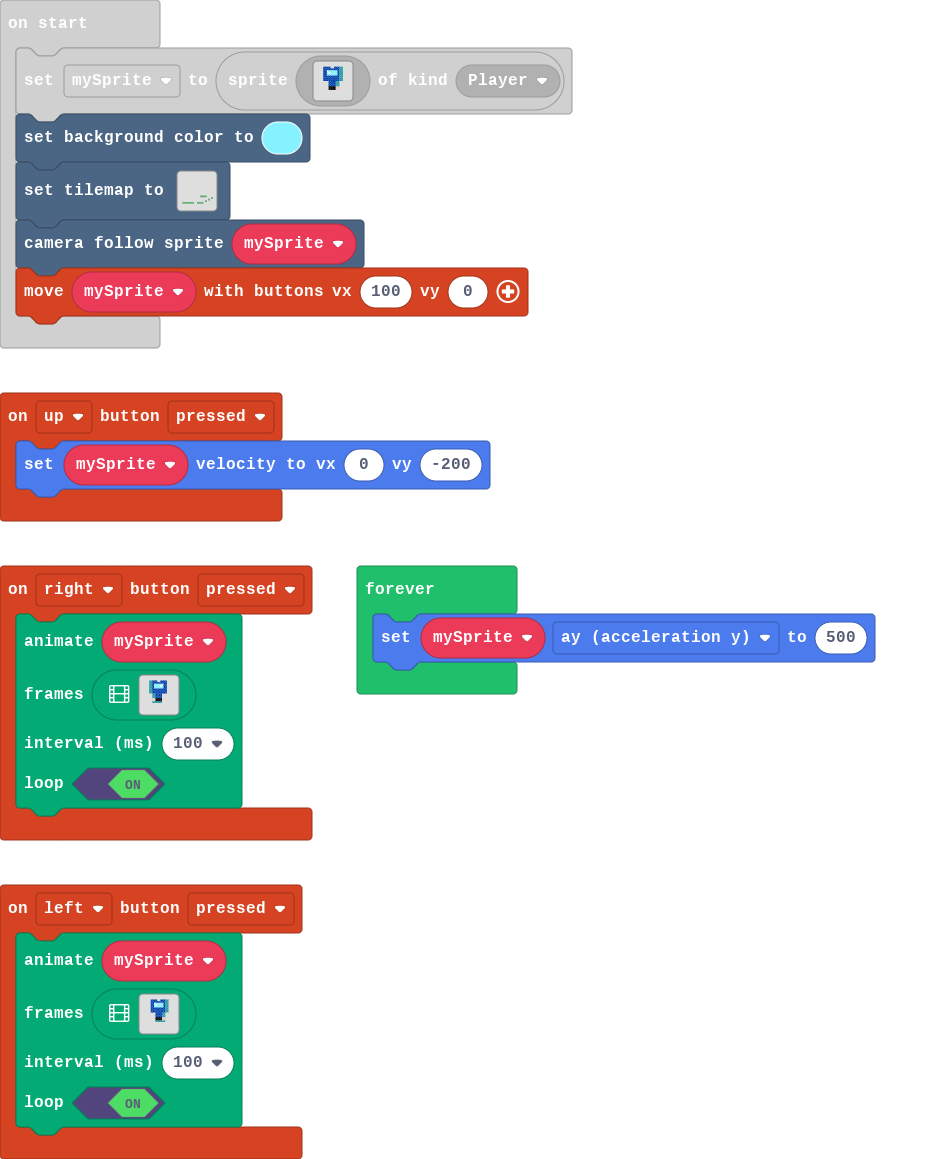
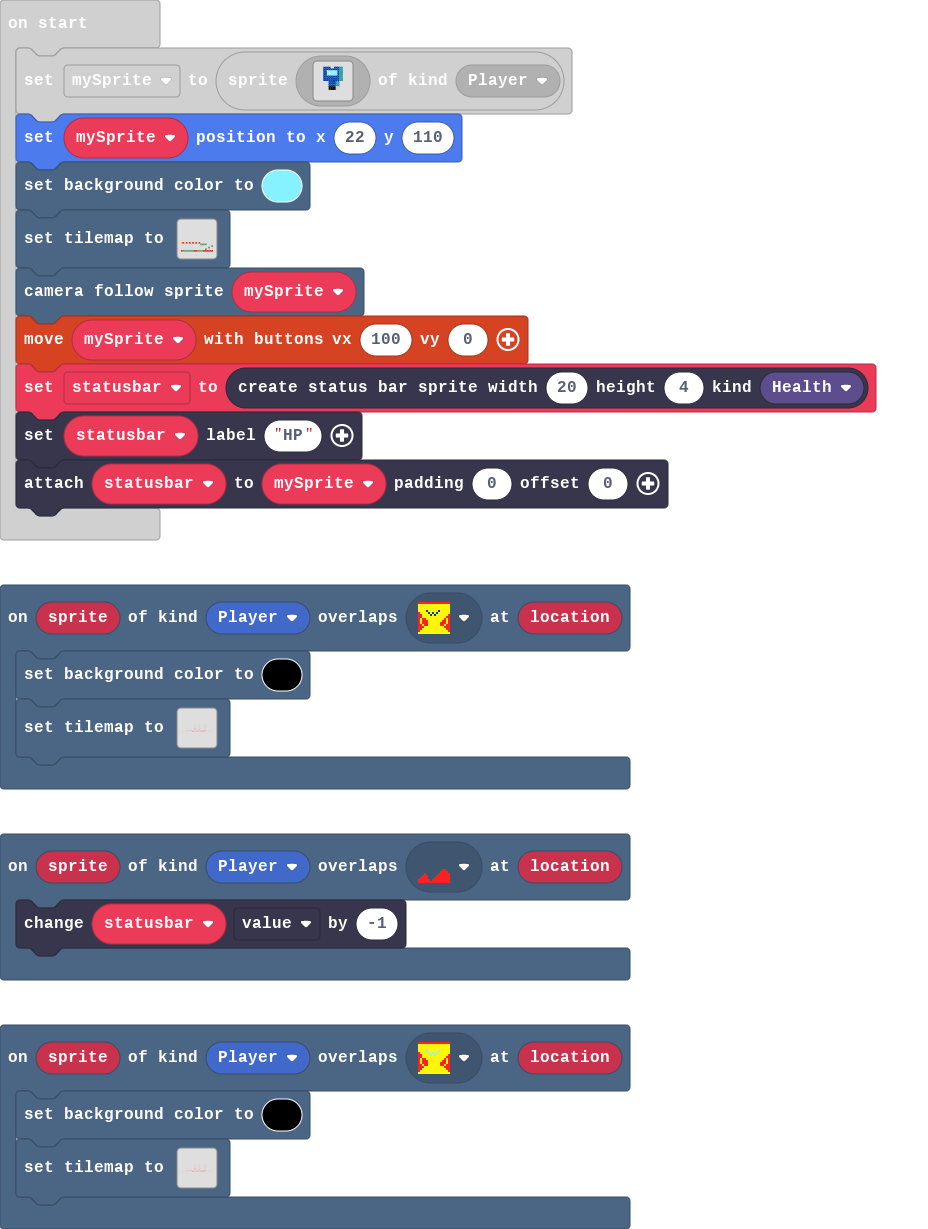
EVER THING

diff --git a/tilemap.g.ts b/tilemap.g.ts
@@ -2,11 +2,50 @@
 namespace myTiles {
     //% fixedInstance jres blockIdentity=images._tile
     export const transparency16 = image.ofBuffer(hex``);
+    //% fixedInstance jres blockIdentity=images._tile
+    export const tile1 = image.ofBuffer(hex``);
+    //% fixedInstance jres blockIdentity=images._tile
+    export const tile2 = image.ofBuffer(hex``);
+    //% fixedInstance jres blockIdentity=images._tile
+    export const tile3 = image.ofBuffer(hex``);
+    //% fixedInstance jres blockIdentity=images._tile
+    export const tile4 = image.ofBuffer(hex``);
+    //% fixedInstance jres blockIdentity=images._tile
+    export const tile7 = image.ofBuffer(hex``);
+    //% fixedInstance jres blockIdentity=images._tile
+    export const tile6 = image.ofBuffer(hex``);
+    //% fixedInstance jres blockIdentity=images._tile
+    export const tile5 = image.ofBuffer(hex``);
+    //% fixedInstance jres blockIdentity=images._tile
+    export const tile8 = image.ofBuffer(hex``);
+    //% fixedInstance jres blockIdentity=images._tile
+    export const tile9 = image.ofBuffer(hex``);
+    //% fixedInstance jres blockIdentity=images._tile
+    export const tile10 = image.ofBuffer(hex``);
 
     helpers._registerFactory("tilemap", function(name: string) {
         switch(helpers.stringTrim(name)) {
+            case "level3":
+            case "level3":return tiles.createTilemap(hex`1000100000000000000000000000000000000000000000000000000000000000000000000000000000000000000000000000000000000000000000000000000000000000000000000000000000000000000000000000000000000000000000000000000000000000000000000000000000000000000000000000000000000000000000000000000000000000000000000000000000000000000000000000000000000000000000000000000000000000000000000000000000000000000000000000000000000000000000000000000000000000000000000000000000000000000000000000000000000000000000000000000000000000000000000000000000000000`, img`
+. . . . . . . . . . . . . . . . 
+. . . . . . . . . . . . . . . . 
+. . . . . . . . . . . . . . . . 
+. . . . . . . . . . . . . . . . 
+. . . . . . . . . . . . . . . . 
+. . . . . . . . . . . . . . . . 
+. . . . . . . . . . . . . . . . 
+. . . . . . . . . . . . . . . . 
+. . . . . . . . . . . . . . . . 
+. . . . . . . . . . . . . . . . 
+. . . . . . . . . . . . . . . . 
+. . . . . . . . . . . . . . . . 
+. . . . . . . . . . . . . . . . 
+. . . . . . . . . . . . . . . . 
+. . . . . . . . . . . . . . . . 
+. . . . . . . . . . . . . . . . 
+`, [myTiles.transparency16], TileScale.Sixteen);
             case "level1":
-            case "level1":return tiles.createTilemap(hex`140010000000000000000000000000000000000000000000000000000000000000000000000000000000000000000000000000000000000000000000000000000000000000000000000000000000000000000000000000000000000000000000000000000000000000000000000000000000000000000000000000000000000000000000000000000000000000000000000000000000000000000000000000000000000000000000000000000000000000000000000000000000000000000000000000000000000000000000000000000000000000000000000000000000000000000000000000000000000002010103000000000000000000000000000000000000000000000004000000000000000000000000000000000004000000000000000000000000000000000004000000000002010101010103000002010103000000000000`, img`
+            case "level1":return tiles.createTilemap(hex`140010000000000000000000000000000000000000000000000000000000000000000000000000000000000000000000000000000000000000000000000000000000000000000000000000000000000000000000000000000000000000000000000000000000000000000000000000000000000000000000000000000000000000000000000000000000000000000000000000000000000000000000000000000000000000000000000000000000000000000000000000000000000000000000000000000000000000000000060500050005000500050005000000000000000000000000000000000000000002010103000000000000000000000000000000000000000000000004000000000000000000000000000000000004000000000000000000000000000000000004000000000702010101010103070702010103070707070707`, img`
 ....................
 ....................
 ....................
@@ -23,7 +62,64 @@ namespace myTiles {
 .................2..
 ...............2....
 .2222222..2222......
-`, [myTiles.transparency16,sprites.builtin.forestTiles2,sprites.builtin.forestTiles1,sprites.builtin.forestTiles3,sprites.builtin.forestTiles4], TileScale.Sixteen);
+`, [myTiles.transparency16,sprites.builtin.forestTiles2,sprites.builtin.forestTiles1,sprites.builtin.forestTiles3,sprites.builtin.forestTiles4,myTiles.tile1,myTiles.tile3,myTiles.tile8], TileScale.Sixteen);
+            case "level2":
+            case "level2":return tiles.createTilemap(hex`4600100000000000000000000000000000000000000000000000000000000000000303030000000000000003030300000000000000000003030303000000000000000000000000000000000000000000000000000000000000000000000000000000000000000003030300000000000000030303000000000000000000030303030000000000000000000000000000000000000000000000000000000000000000000000000000000000000000030303000000000000000303030000000000000000000303030300000000000000000000000000000000000000000000000000000000000000000000000000000000000000000303030000000000000003030300000000000000000003030303000000000000000000000000000000000000000000000000000000000000000000000000000000000000000003030300000000000000030303000000000000000000030303030000000000000000000000000000000000000000000000000000000000000000000000000000000000000000030303000000000000000303030000000000000000000303030300000000000000000000000000000000000000000000000000000000000000000000000000000000000000000303030000000000000003030300000000000000000003030303000000000000000000000000000000000000000000000000000000000000000000000000000000000000000000000000000000000000030303000000000000000000030303030000000000000000000000000000000000000000000000000000000000000000000000000000000000000000000000000000000000000303030000000000000000000303030300000000000000000000000000000000000000000000000000000000000000000000000000000000000000000000000000000000000003030300000000000000000003030303000000000000000000000000000000000000000000000000000000000000000000000000000000000000000002020200000000000000000000000000000000000000000000000000000000000000000000000000000000000000000000000000000000000000000000000000000000000000030303000000000000000000000000000000000000000000000000000000000000000000000000000400000000000000000000000000000000000000000000000000000000000303030000000000000002020200000000000000000000000000000000000000000000000000000000000000000000000000000001000001000001000001000001000000000003030302000000000000030303000000000000000000020202020000000000000000000003030303030000000000000000000000000000000000000000000000000000000000030303030000000000000303030000000000000000000303030303030303030303030303030303030303030303030303030303030303030303030303030303030302020202020303030302020202020203030302020202020202020203030303030303030303030303030303030303`, img`
+.............................222.......222.........2222...............
+.............................222.......222.........2222...............
+.............................222.......222.........2222...............
+.............................222.......222.........2222...............
+.............................222.......222.........2222...............
+.............................222.......222.........2222...............
+.............................222.......222.........2222...............
+.......................................222.........2222...............
+.......................................222.........2222...............
+.......................................222.........2222...............
+......................................................................
+.............................222......................................
+.............................222......................................
+.............................222.......222.......................22222
+.............................2222......222.........2222222222222222222
+222222222222222222222222.....2222......222.........2222222222222222222
+`, [myTiles.transparency16,myTiles.tile2,myTiles.tile8,sprites.dungeon.floorLight2,myTiles.tile4], TileScale.Sixteen);
+            case "level4":
+            case "level4":return tiles.createTilemap(hex`1000100000000000000000000000000000000000000000000000000000000000000000000000000000000000000000000000000000000000000000000000000000000000000000000000000000000000000000000000000000000000000000000000000000000000000000000000000000000000000000000000000000000000000000000000000000000000000000000000000000000000000000000000000000000000000000000000000000000000000000000000000000000000000000000000000000000000000000000000000000000000000000000000000000000000000000000000000000000000000000000000000000000000000000000000000000000000`, img`
+. . . . . . . . . . . . . . . . 
+. . . . . . . . . . . . . . . . 
+. . . . . . . . . . . . . . . . 
+. . . . . . . . . . . . . . . . 
+. . . . . . . . . . . . . . . . 
+. . . . . . . . . . . . . . . . 
+. . . . . . . . . . . . . . . . 
+. . . . . . . . . . . . . . . . 
+. . . . . . . . . . . . . . . . 
+. . . . . . . . . . . . . . . . 
+. . . . . . . . . . . . . . . . 
+. . . . . . . . . . . . . . . . 
+. . . . . . . . . . . . . . . . 
+. . . . . . . . . . . . . . . . 
+. . . . . . . . . . . . . . . . 
+. . . . . . . . . . . . . . . . 
+`, [myTiles.transparency16], TileScale.Sixteen);
+            case "level5":
+            case "level5":return tiles.createTilemap(hex`6400100000000000000000000000000000000000000000000000000000000000000000000000000000000000000000000000000000000000000000000000000000000000000000000000000000000000000000000000000000000000000000000000000000000000000000000000000000000000000000000000000000000000000000000000000000000000000000000000000000000000000000000000000000000000000000000000000000000000000000000000000000000000000000000000000000000000000000000000000000000000000000000000000000000000000000000000000000000000000000000000000000000000000000000000000000000000000000000000000000000000000000000000000000000000000000000000000000000000000000000000000000000000000000000000000000000000000000000000000000000000000000000000000000000000000000000000000000000000000000000000000000000000000000000000000000000000000000000000000000000000000000000000000000000000000000000000000000000000000000000000000000000000000000000000000000000000000000000000000000000000000000000000000000000000000000000000000000000000000000000000000000000000000000000000000000000000000000000000000000000000000000000000000000000000000000000000000000000000000000000000000000000000000000000000000000000000000000000000000000000000000000000000000000000000000000000000000000000000000000000000000000000000000000000000000000000000000000000000000000000000000000000000000000000000000000000000000000000000000000000000000000000000000000000000000000000000000000000000000000000000000000000000000000000000000000000000000000000000000000000000000000000000000000000000000000000000000000000000000000000000000000000000000000000000000000000000000000000000000000000000000000000000000000000000000000000000000000000000000000000000000000000000000000000000000000000000000000000000000000000000000000000000000000000000000000000000000000000000000000000000000000000000000000000000000000000000000000000000000000000000000000000000000000000000000000000000000000000000000000000000000000000000000000000000000000000000000000000000000000000000000000000000000000000000000000000000000000000000000000000000000000000000000000000000000000000000000000000000000000000000000000000000000000000000000000000000000000000000000000000000000000000000000000000000000000000000000000000000000000000000000000000000000000000000000000000000000000000000000000000000000000000003030303030303030303030303030303030303030303000000000000000000000000000000000000000000000000000000000000000000000000000000000000000000000000000000000000000000000000000000000003030303030303030303030303000000000000000000000000000000000000000000000000000000000000000000000000000000000000000000000000000000000000000000000000000000000000000000000000000000000000000000000000000000000000000000000000000000000000000000000000000001010000020002000200020000000000000000000000000000000000000000000000000000000000000000000000000000000000000000000000000000000000000000000000000000000000000000000000000000000000000000030303030303030303030300000000000000000000000000000000000000000000000000000000000000000000000000000000000000000000000000000000000000000000000000000000000000000000000000000003030303030303030303030301010101010101010101010101010101010101010101010000000000000000000000000000000000000000000000000000000000000000000000000000000000000000000000000000000000000000000000000000000000`, img`
+....................................................................................................
+....................................................................................................
+....................................................................................................
+....................................................................................................
+....................................................................................................
+....................................................................................................
+....................................................................................................
+....................................................................................................
+....................................................................................................
+....................................................................................................
+....................................................................................................
+.............2222222222222222222222.................................................................
+2222222222222.......................................................................................
+....................................................................................................
+..............22222222222...........................................................................
+222222222222........................................................................................
+`, [myTiles.transparency16,myTiles.tile8,myTiles.tile10,sprites.builtin.brick], TileScale.Sixteen);
         }
         return null;
     })
@@ -31,6 +127,26 @@ namespace myTiles {
     helpers._registerFactory("tile", function(name: string) {
         switch(helpers.stringTrim(name)) {
             case "transparency16":return transparency16;
+            case "myTile":
+            case "tile1":return tile1;
+            case "myTile0":
+            case "tile2":return tile2;
+            case "myTile1":
+            case "tile3":return tile3;
+            case "myTile2":
+            case "tile4":return tile4;
+            case "myTile5":
+            case "tile7":return tile7;
+            case "myTile4":
+            case "tile6":return tile6;
+            case "myTile3":
+            case "tile5":return tile5;
+            case "myTile6":
+            case "tile8":return tile8;
+            case "myTile7":
+            case "tile9":return tile9;
+            case "myTile8":
+            case "tile10":return tile10;
         }
         return null;
     })

diff --git a/main.ts b/main.ts
@@ -1,5 +1,12 @@
+scene.onOverlapTile(SpriteKind.Player, assets.tile`myTile1`, function (sprite, location) {
+    scene.setBackgroundColor(15)
+    tiles.setTilemap(tilemap`level2`)
+})
 controller.up.onEvent(ControllerButtonEvent.Pressed, function () {
     mySprite.setVelocity(0, -200)
+})
+scene.onOverlapTile(SpriteKind.Player, assets.tile`myTile6`, function (sprite, location) {
+    statusbar.value += -1
 })
 controller.left.onEvent(ControllerButtonEvent.Pressed, function () {
     animation.runImageAnimation(
@@ -9,6 +16,10 @@ controller.left.onEvent(ControllerButtonEvent.Pressed, function () {
     true
     )
 })
+scene.onOverlapTile(SpriteKind.Player, assets.tile`myTile3`, function (sprite, location) {
+    scene.setBackgroundColor(15)
+    tiles.setTilemap(tilemap`level2`)
+})
 controller.right.onEvent(ControllerButtonEvent.Pressed, function () {
     animation.runImageAnimation(
     mySprite,
@@ -17,6 +28,7 @@ controller.right.onEvent(ControllerButtonEvent.Pressed, function () {
     true
     )
 })
+let statusbar: StatusBarSprite = null
 let mySprite: Sprite = null
 mySprite = sprites.create(img`
     . . . . . . . . . . . . . . . . 
@@ -38,10 +50,14 @@ mySprite = sprites.create(img`
     . . . . . . . . . . . . . . . . 
     . . . . . . . . . . . . . . . . 
     `, SpriteKind.Player)
+mySprite.setPosition(22, 110)
 scene.setBackgroundColor(9)
 tiles.setTilemap(tilemap`level1`)
 scene.cameraFollowSprite(mySprite)
 controller.moveSprite(mySprite, 100, 0)
+statusbar = statusbars.create(20, 4, StatusBarKind.Health)
+statusbar.setLabel("HP")
+statusbar.attachToSprite(mySprite)
 forever(function () {
     mySprite.ay = 500
 })
